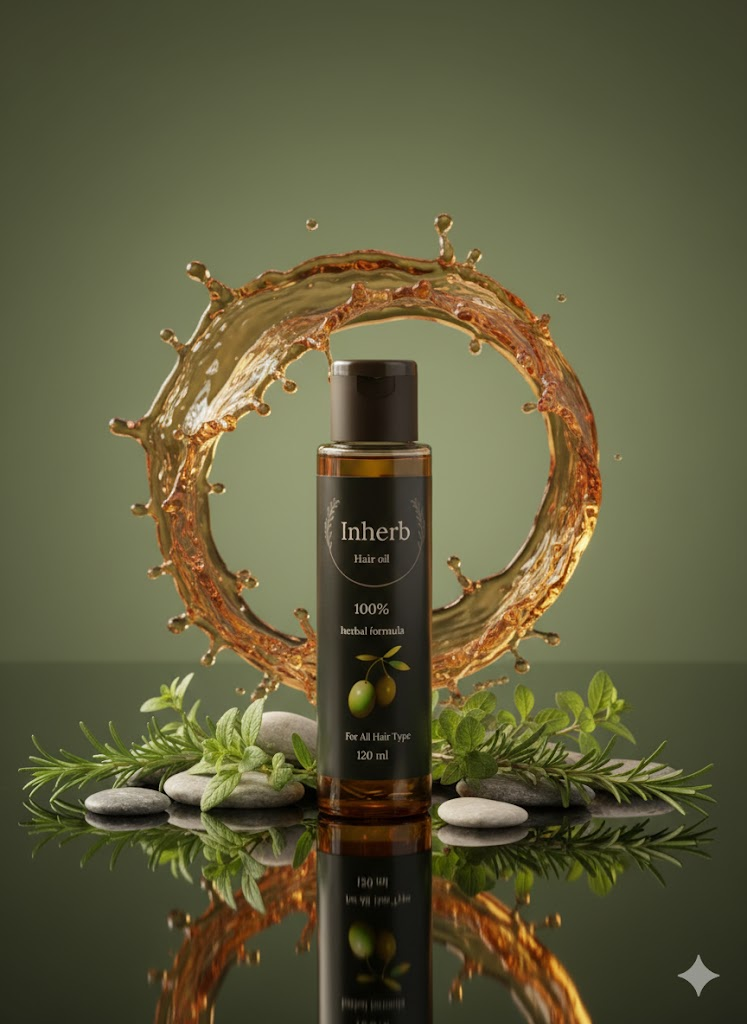
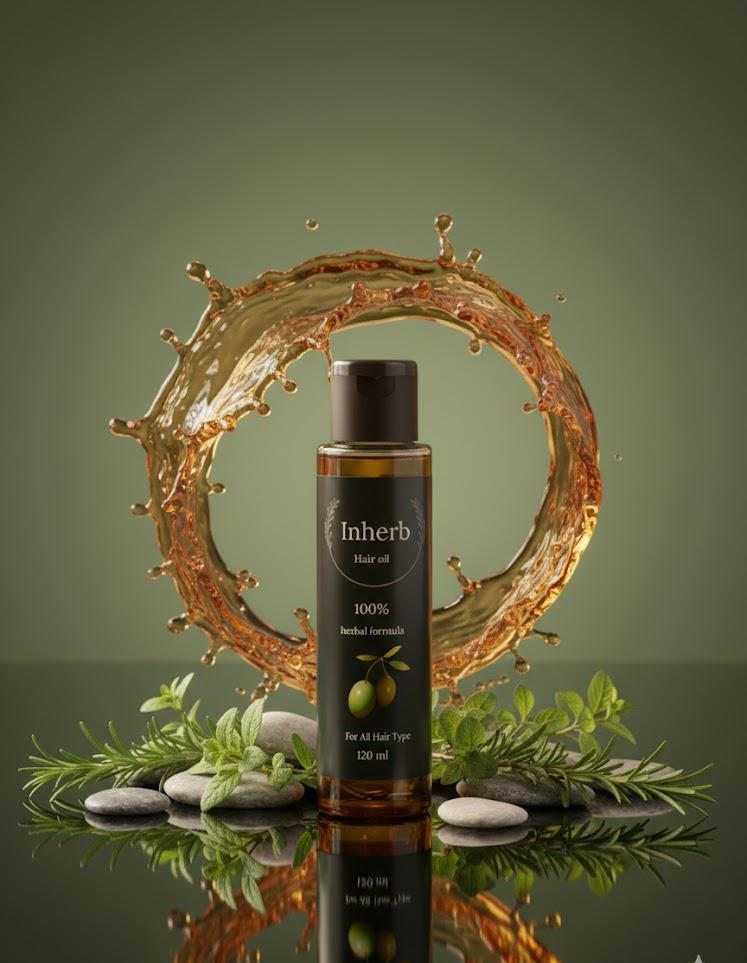
change image of about page

Changed region(s): [[0.0308, 0.1869, 0.9545, 1.0], [0.8929, 0.9346, 0.9545, 0.9657], [0.9237, 0.9969, 0.9545, 1.0]]

diff --git a/index.html b/index.html
@@ -1054,9 +1054,12 @@
     }
 
     .about-image img {
-      max-width: 100%;
       border-radius: 10px;
       box-shadow: 0 10px 30px rgba(0,0,0,0.1);
+       max-width: 50%;
+      max-height: 50%;
+      object-fit: contain;
+      transition: var(--transition);
     }
 
     /* FAQ Section */
